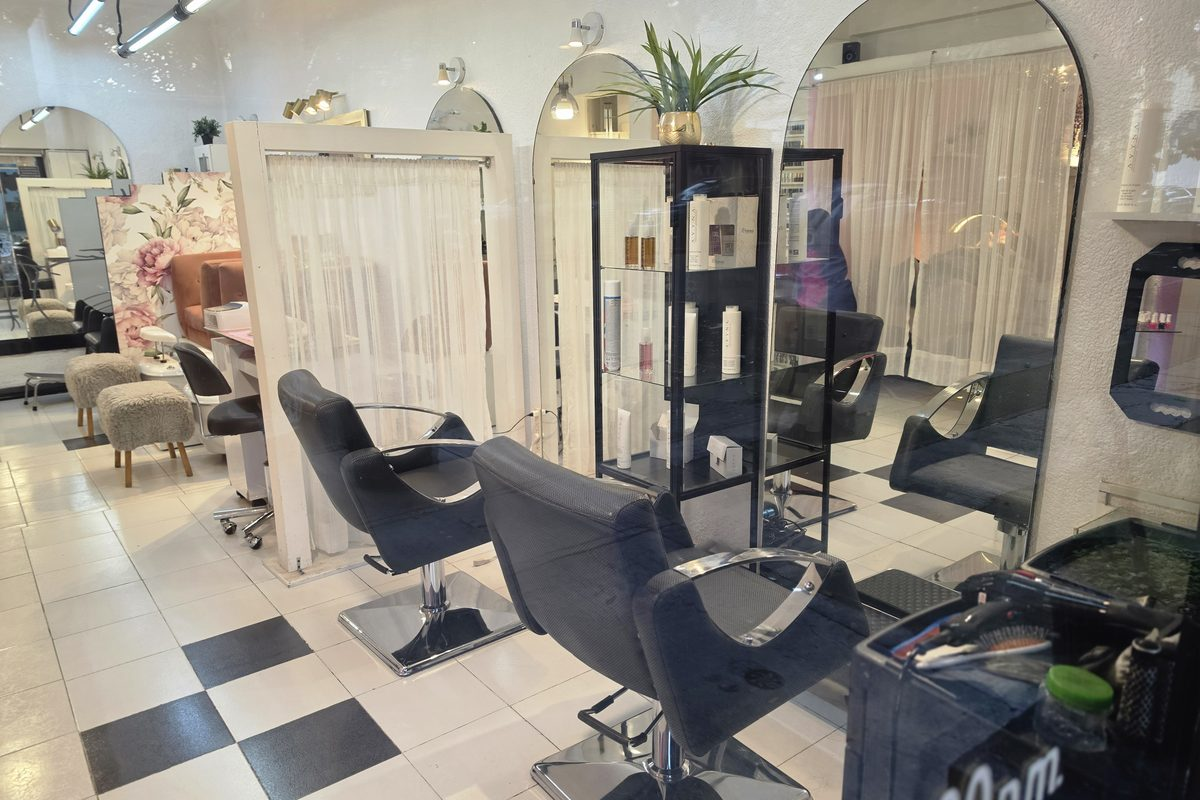
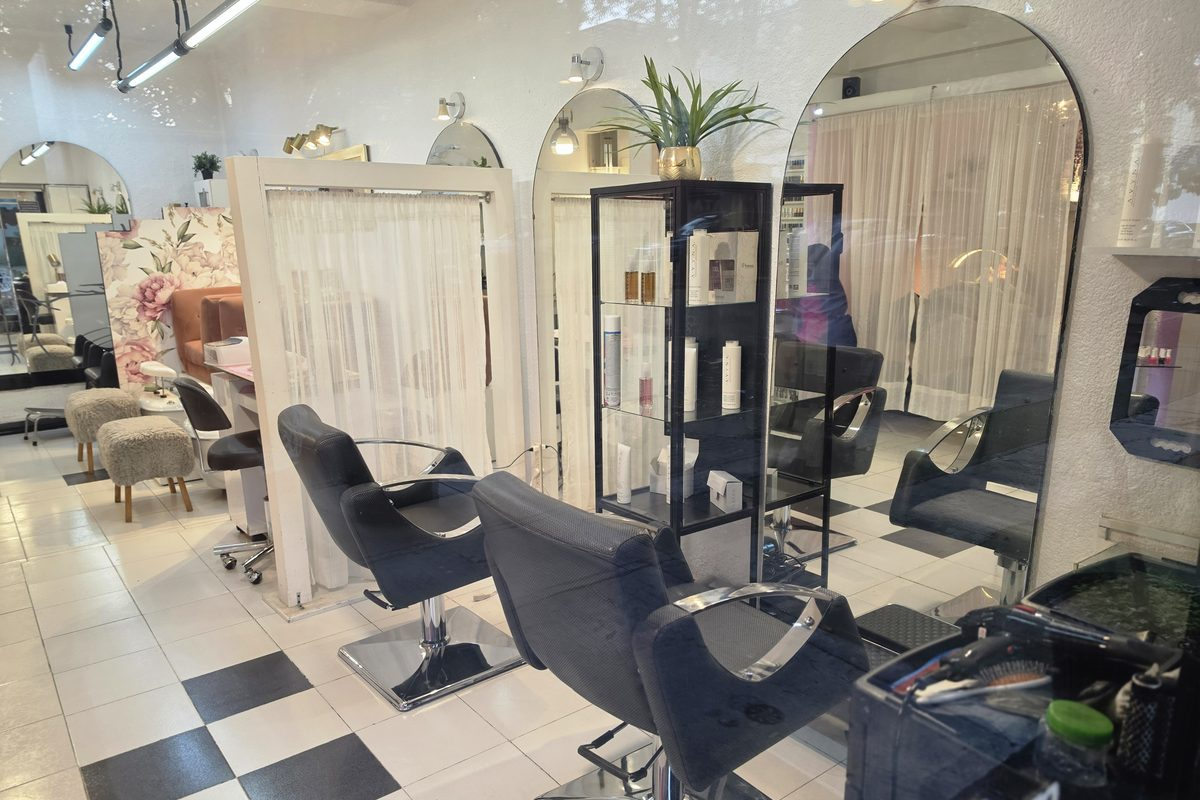
Sellar los assets con su huella: la caché de un año estaba ocultando los cambios
El salón reportó que con Shift+F5 veía los arreglos y al recargar normal
se le deshacían. No era su navegador: era un error mío.

_headers sirve /assets/* con "max-age=31536000, immutable". Un año, e
"immutable" le dice al navegador que ni siquiera pregunte si cambió. Eso
está bien para app.<hash>.js, cuyo nombre cambia con su contenido, y está
mal para todo lo demás, que tenía nombre fijo: style.css, las fotos, los
mapas. Quien ya había visitado el sitio se quedaba con la versión vieja
hasta un año, y lo único que lo rompía era un Shift+F5 que nadie hace.

O sea que cada cambio de CSS o de imagen de esta sesión sí subió y no le
llegó a nadie que ya hubiera entrado. Explica buena parte del ida y
vuelta de los últimos días.

publicar.py ahora renombra cada archivo de assets/ con la huella de su
contenido —296 archivos— y reescribe las referencias. Va aquí y no en
build.py para que el preview conserve nombres legibles y para que la
huella salga del archivo tal como se publica.

Dos pasadas, porque el CSS referencia imágenes: primero las imágenes,
luego el CSS, que ya no vuelve a cambiar.

Y un error que cazó la revisión: el CSS se refiere a sus vecinos por el
nombre pelado —url("flor-marca.png"), no "/assets/flor-marca.png"— así
que la primera versión de esto dejó rotas la tipografía Parisienne y las
dos flores del marco. Ahora también se reescriben las rutas relativas
dentro del CSS.

De paso, el recorte de la foto de cabello se corre hacia arriba
[…]

diff --git a/stilo-salon/publicar.py b/stilo-salon/publicar.py
@@ -101,6 +101,8 @@ def main():
         sys.exit("ABORTADO, se coló algo que no debe ser público:\n  "
                  + "\n  ".join(prohibido))
 
+    huella = sellar(DIST)
+
     peso = sum(f.stat().st_size for f in DIST.rglob("*") if f.is_file())
     # El zip se arma aquí y no a mano: escrito a mano se cuela
     # "zip -x '.*'", que excluye todo lo que empieza con punto y se lleva la
@@ -122,8 +124,98 @@ def main():
 
     print(f"_dist/ listo — {n} páginas y archivos de config, {a} assets, "
           f"{peso/1e6:.1f} MB")
+    print(f"  {huella} assets renombrados con su huella (caché de un año sin riesgo)")
     print(f"_dist.zip — {len(dentro)} archivos, {zipf.stat().st_size/1e6:.1f} MB")
     print("Subir el zip al Worker, o:  npx wrangler pages deploy _dist")
+
+
+# Extensiones de archivos de texto donde puede haber una ruta a assets/.
+TEXTO = {".html", ".css", ".xml", ".txt", ".json", ".md", ".webmanifest"}
+
+
+def sellar(dist):
+    """Renombra cada archivo de assets/ con la huella de su contenido.
+
+    Por qué hace falta: _headers sirve /assets/* con
+    "max-age=31536000, immutable".  Un año, e "immutable" le dice al
+    navegador que ni siquiera pregunte si cambió.  Eso está bien para un
+    archivo cuyo nombre cambia cuando cambia su contenido —como
+    app.<hash>.js— y está MAL para todo lo demás: con nombre fijo, quien
+    ya visitó el sitio se queda con el style.css y las fotos viejas hasta
+    un año, y lo único que lo arregla es un Shift+F5 que nadie hace.
+
+    Pasó de verdad: el salón reportó que los cambios se veían con
+    Shift+F5 y se deshacían al recargar normal.
+
+    Se hace aquí y no en build.py para que el preview siga teniendo
+    nombres legibles y para que la huella salga del archivo tal como se
+    publica.  Dos pasadas porque el CSS referencia imágenes: primero se
+    sellan las imágenes y se reescriben las referencias dentro del CSS,
+    y sólo entonces se sella el CSS, que ya no va a volver a cambiar.
+    """
+    import hashlib, re
+
+    def hashear(rutas):
+        mapa = {}
+        for f in sorted(rutas):
+            rel = f.relative_to(dist).as_posix()
+            # app.<hash>.js ya trae su huella puesta por build.py.
+            if re.search(r"\.[0-9a-f]{8}\.[a-z0-9]+$", rel):
+                continue
+            h = hashlib.sha1(f.read_bytes()).hexdigest()[:8]
+            nuevo = f"{f.stem}.{h}{f.suffix}"
+            f.rename(f.with_name(nuevo))
+            mapa["/" + rel] = "/" + (f.parent / nuevo).relative_to(dist).as_posix()
+        return mapa
+
+    def reescribir(mapa):
+        if not mapa:
+            return
+        # De la ruta más larga a la más corta: si una fuera prefijo de
+        # otra, reemplazar primero la corta partiría la larga.
+        pares = sorted(mapa.items(), key=lambda kv: -len(kv[0]))
+        for f in dist.rglob("*"):
+            if not f.is_file() or (f.suffix not in TEXTO and f.name not in ("_headers", "_redirects")):
+                continue
+            try:
+                txt = f.read_text(encoding="utf-8")
+            except UnicodeDecodeError:
+                continue
+            orig = txt
+            for viejo, nuevo in pares:
+                if viejo in txt:
+                    txt = txt.replace(viejo, nuevo)
+            if txt != orig:
+                f.write_text(txt, encoding="utf-8")
+
+    def reescribir_css_relativo(mapa):
+        """El CSS vive dentro de assets/ y se refiere a sus vecinos por el
+        nombre pelado: url("flor-marca.png"), no "/assets/flor-marca.png".
+        La reescritura de arriba no los ve, así que al renombrar los
+        archivos esas tres referencias —la tipografía y las dos flores—
+        quedaban rotas.  Pasó: la primera versión de esto las rompió y lo
+        cazó la revisión."""
+        vecinos = {viejo.rsplit("/", 1)[-1]: nuevo.rsplit("/", 1)[-1]
+                   for viejo, nuevo in mapa.items()
+                   if viejo.count("/") == 2}          # /assets/x.png
+        for f in assets.rglob("*.css"):
+            txt = orig = f.read_text(encoding="utf-8")
+            for v, n in sorted(vecinos.items(), key=lambda kv: -len(kv[0])):
+                for comilla in ('"', "'", ""):
+                    txt = txt.replace(f"url({comilla}{v}{comilla})",
+                                      f"url({comilla}{n}{comilla})")
+            if txt != orig:
+                f.write_text(txt, encoding="utf-8")
+
+    assets = dist / "assets"
+    imagenes = [f for f in assets.rglob("*") if f.is_file() and f.suffix != ".css"]
+    mapa = hashear(imagenes)
+    reescribir(mapa)
+    reescribir_css_relativo(mapa)
+    hojas = [f for f in assets.rglob("*.css") if f.is_file()]
+    mapa2 = hashear(hojas)
+    reescribir(mapa2)
+    return len(mapa) + len(mapa2)
 
 if __name__ == "__main__":
     main()

diff --git a/stilo-salon/fotos_salon.py b/stilo-salon/fotos_salon.py
@@ -32,14 +32,25 @@ DESTINO = RAIZ / "assets"
 ANCHO, ALTO = 1200, 800
 
 # El prefijo "local-" las separa de las fotos de trabajos en assets/.
-FOTOS = ["fachada", "estaciones", "cabina-pestanas", "pedicure"]
+#
+# El segundo número es de dónde sale el recorte vertical: 0 conserva el
+# borde de arriba, 1 el de abajo, 0.5 reparte.  Casi todas se reparten,
+# pero en las estaciones de corte lo bueno está arriba —los espejos de
+# arco— y lo que sobra abajo es piso y el carrito de brochas, así que ahí
+# el recorte se corre hacia arriba.
+FOTOS = {
+    "fachada":         0.5,
+    "estaciones":      0.15,
+    "cabina-pestanas": 0.5,
+    "pedicure":        0.5,
+}
 
 
 def main():
     if not FUENTE.exists():
         raise SystemExit(f"No está {FUENTE.name}/. Los originales no entran a "
                          "git: cópialos ahí antes de correr esto.")
-    for nombre in FOTOS:
+    for nombre, centro_y in FOTOS.items():
         origen = FUENTE / f"{nombre}.jpg"
         if not origen.exists():
             raise SystemExit(f"Falta {origen}")
@@ -49,7 +60,8 @@ def main():
         im = ImageOps.exif_transpose(im).convert("RGB")
         # ImageOps.fit recorta centrado a la proporción pedida en vez de
         # deformar.  Como las cuatro ya son 4:3, no recorta nada.
-        im = ImageOps.fit(im, (ANCHO, ALTO), Image.LANCZOS)
+        im = ImageOps.fit(im, (ANCHO, ALTO), Image.LANCZOS,
+                          centering=(0.5, centro_y))
         base = DESTINO / f"local-{nombre}"
         im.save(base.with_suffix(".jpg"), quality=82, optimize=True, progressive=True)
         im.save(base.with_suffix(".webp"), quality=80, method=6)
